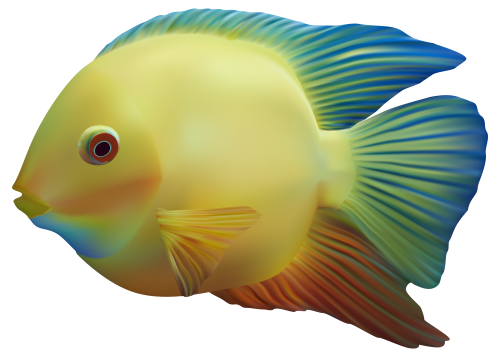
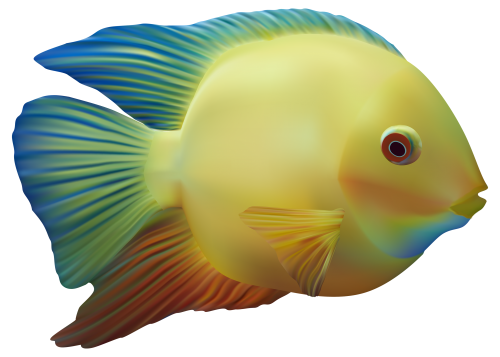
fish changes orientation to swim forward

diff --git a/fish.js b/fish.js
@@ -13,6 +13,7 @@ class Fish {
     this.speedY = 1;
     this.width = this.element.offsetWidth;
     this.height = this.element.offsetHeight;
+    this.orientation = 1;
   }
 
   update() {
@@ -20,10 +21,12 @@ class Fish {
     const fishBottom = this.y + this.height;
     if (fishRight >= MAX_X || this.x < MIN_X ) {
       this.speedX *= -1;
+      this.orientation *= -1;
     }
     if (fishBottom >= MAX_Y || this.y < MIN_Y) {
       this.speedY *= -1;
     }
+
     this.x += this.speedX;
     this.y += this.speedY;
   }
@@ -31,6 +34,8 @@ class Fish {
   display() {
     this.element.style.left = this.x;
     this.element.style.top = this.y;
+    const scaleString = `scaleX(${this.orientation})`;
+    this.element.style.transform = `scaleX(${this.orientation})`;
   }
 
 }
